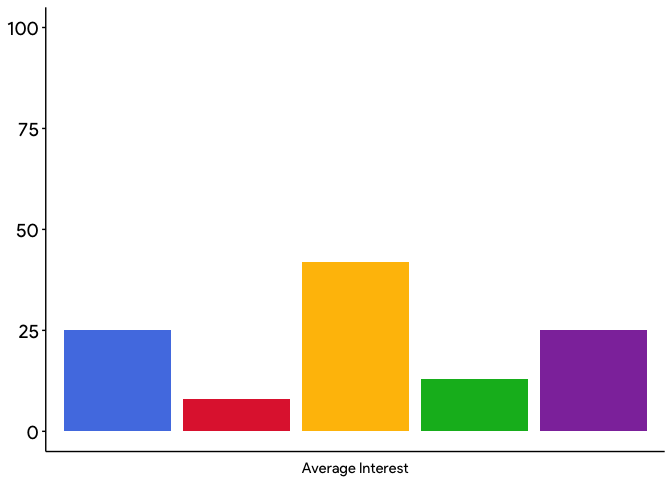
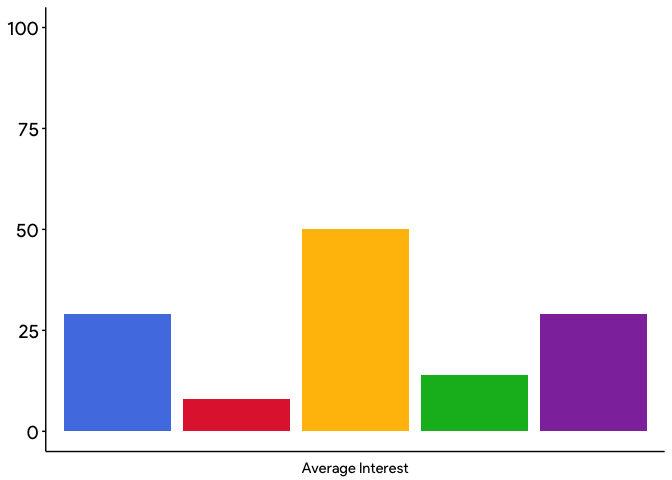
source(function)

diff --git a/google-trends-guide.md b/google-trends-guide.md
@@ -350,11 +350,11 @@ avg_trend
     ## # A tibble: 5 x 2
     ##   search_term             avg_interest
     ##   <chr>                          <dbl>
-    ## 1 "\"juice laundry\""               25
+    ## 1 "\"juice laundry\""               29
     ## 2 "\"the juice laundry\""            8
-    ## 3 juice laundry                     42
-    ## 4 the juice laundry                 13
-    ## 5 TJL Topic                         25
+    ## 3 juice laundry                     50
+    ## 4 the juice laundry                 14
+    ## 5 TJL Topic                         29
 
 Construct a draft for the bar graph. Remember that bar graphs with y variables specified must clarify that `stat = 'identity'`.
 
